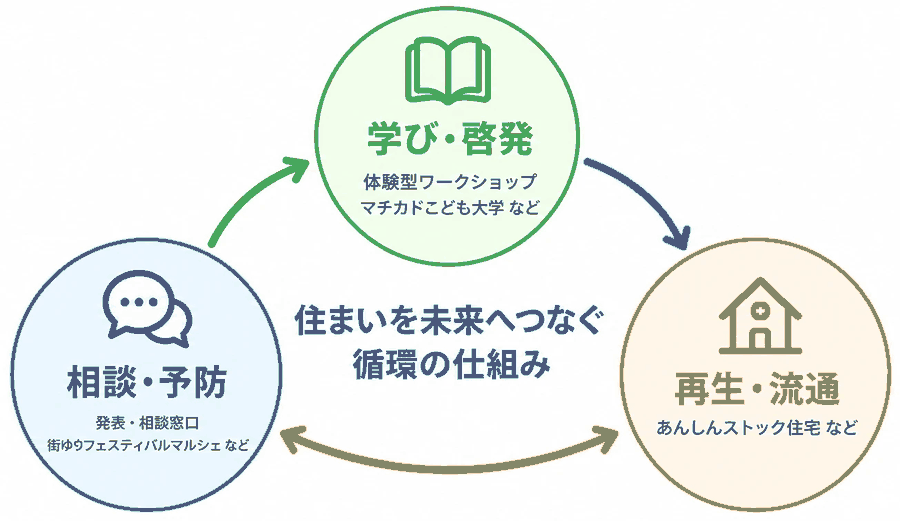
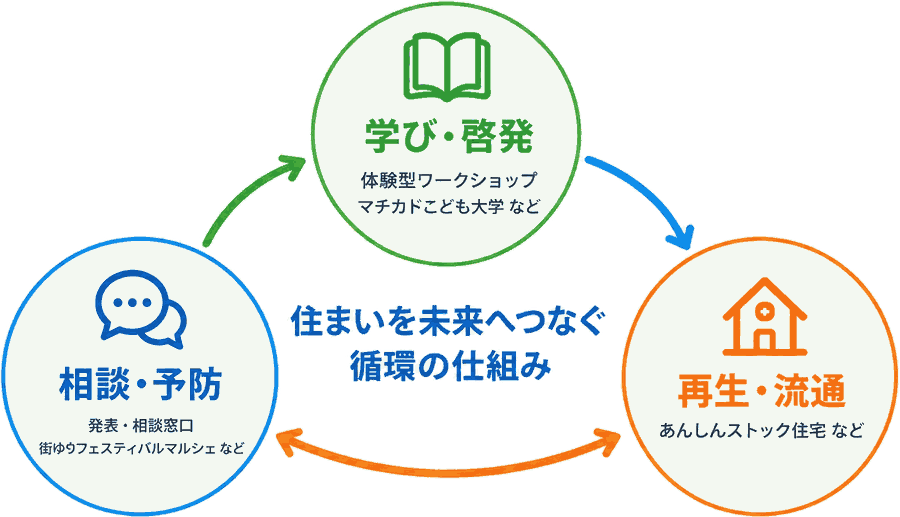
Rebuild katsudo hero to match design reference exactly
Drop the separate SVG illustration and per-node mobile crops; use the single
cycle-diagram artwork as-is on both desktop and mobile, with a transparent
background so the hero photo shows through around the circles/arrows. On
desktop the title and lead overlay the diagram's blank corner; on mobile the
text stacks above the (smaller) same image for legibility.

Claude-Session: https://claude.ai/code/session_01Dgj19L5yLhKY8Ha7ZcoKTA

diff --git a/katsudo.html b/katsudo.html
@@ -55,74 +55,16 @@
 
 <main>
 
-  <!-- ===== Page header + Intro ===== -->
+  <!-- ===== Page header + Intro + Cycle diagram (hero) ===== -->
   <div class="katsudo-hero">
-  <section class="page-header">
-    <div class="wrap">
-      <h1>活動内容</h1>
-    </div>
-  </section>
-
-  <section class="katsudo-intro">
-    <div class="wrap">
-      <p>空き家になる前から、学び、相談、再生・流通につなぐことで、住まいが循環する地域の仕組みづくりを進めています。</p>
-      <div class="katsudo-intro-visual">
-        <svg viewBox="0 0 560 300" width="100%">
-          <defs>
-            <linearGradient id="katsudoSky" x1="0" y1="0" x2="0" y2="1">
-              <stop offset="0" stop-color="#BFE0F5"/>
-              <stop offset="1" stop-color="#E8F4FB"/>
-            </linearGradient>
-          </defs>
-          <rect width="560" height="300" fill="url(#katsudoSky)"/>
-          <g fill="#8FBF7A">
-            <ellipse cx="90" cy="250" rx="120" ry="45"/>
-            <ellipse cx="470" cy="258" rx="130" ry="42"/>
-          </g>
-          <rect x="60" y="160" width="70" height="90" fill="#F4B860"/>
-          <polygon points="55,160 95,130 135,160" fill="#D98B3E"/>
-          <rect x="150" y="190" width="55" height="60" fill="#E8DCC8"/>
-          <polygon points="146,190 177,168 208,190" fill="#C9B48C"/>
-          <rect x="220" y="140" width="80" height="110" fill="#F1EADC"/>
-          <polygon points="215,140 260,108 305,140" fill="#1D6FBD"/>
-          <rect x="315" y="180" width="60" height="70" fill="#F4B860"/>
-          <polygon points="311,180 345,154 379,180" fill="#D98B3E"/>
-          <rect x="395" y="165" width="75" height="85" fill="#E8DCC8"/>
-          <polygon points="390,165 432,136 475,165" fill="#C9B48C"/>
-          <rect x="0" y="248" width="560" height="52" fill="#DCE8D2"/>
-          <line x1="0" y1="260" x2="560" y2="260" stroke="#B9CDA9" stroke-width="6"/>
-          <g>
-            <circle cx="238" cy="258" r="9" fill="#F4C892"/>
-            <rect x="229" y="267" width="18" height="24" rx="7" fill="#1D6FBD"/>
-            <circle cx="264" cy="263" r="7" fill="#F4D6A8"/>
-            <rect x="257" y="270" width="14" height="19" rx="6" fill="#F0902E"/>
-            <circle cx="212" cy="261" r="8" fill="#F4C892"/>
-            <rect x="204" y="269" width="16" height="21" rx="6" fill="#4CA750"/>
-          </g>
-        </svg>
-      </div>
-    </div>
-  </section>
-
-  <!-- ===== Cycle diagram ===== -->
   <section class="cycle-section">
     <div class="wrap">
-
-      <div class="cycle-wrap">
-        <img class="cycle-diagram-img" src="images/katsudo-cycle-diagram.png" alt="学び・啓発、相談・予防、再生・流通の3つが循環し、住まいを未来へつなぐ仕組みの図">
-      </div>
-
-      <!-- mobile-only simplified flow -->
-      <div class="cycle-mobile">
-        <img class="cycle-mobile-node" src="images/katsudo-cycle-manabi.png" alt="学び・啓発：住教育ワークショップ、マチカドこども大学 など">
-        <svg class="cycle-mobile-arrow is-green" width="26" height="30" viewBox="0 0 26 30"><line x1="13" y1="2" x2="13" y2="24" stroke="#4CA750" stroke-width="2.5"/><polygon points="13,30 7,19 19,19" fill="#4CA750"/></svg>
-        <img class="cycle-mobile-caption" src="images/katsudo-cycle-caption.png" alt="住まいを未来へつなぐ循環の仕組み">
-        <svg class="cycle-mobile-arrow is-blue" width="26" height="30" viewBox="0 0 26 30"><line x1="13" y1="6" x2="13" y2="28" stroke="#1D6FBD" stroke-width="2.5"/><polygon points="13,30 7,19 19,19" fill="#1D6FBD"/></svg>
-        <div class="cycle-mobile-row">
-          <img src="images/katsudo-cycle-soudan.png" alt="相談・予防：空き家相談窓口、地域フェスティバル・マルシェ など">
-          <svg class="cycle-mobile-arrow is-orange" width="20" height="22" viewBox="0 0 20 22"><line x1="3" y1="11" x2="16" y2="11" stroke="#F0902E" stroke-width="2.5"/><polygon points="0,11 7,6.5 7,15.5" fill="#F0902E"/><polygon points="20,11 13,6.5 13,15.5" fill="#F0902E"/></svg>
-          <img src="images/katsudo-cycle-saisei.png" alt="再生・流通：あんしんストック住宅 など">
+      <div class="katsudo-hero-flex">
+        <div class="katsudo-hero-text">
+          <h1>活動内容</h1>
+          <p>空き家になる前から、学び、相談し、再生・流通につなぐことで、住まいが循環する地域の仕組みづくりを進めています。</p>
         </div>
+        <img class="cycle-diagram-img" src="images/katsudo-cycle-diagram.png" alt="学び・啓発、相談・予防、再生・流通の3つが循環し、住まいを未来へつなぐ仕組みの図">
       </div>
 
       <!-- ===== Model business banner ===== -->

diff --git a/css/katsudo.css b/css/katsudo.css
@@ -17,24 +17,13 @@
 }
 .katsudo-hero > *{position:relative; z-index:1;}
 
-/* ===== Intro ===== */
-.katsudo-intro{padding-bottom:24px;}
-.katsudo-intro .wrap{display:grid; grid-template-columns:1.1fr 0.9fr; gap:24px; align-items:center;}
-.katsudo-intro p{color:var(--gray-text); font-size:14.5px; max-width:42ch;}
-.katsudo-intro-visual{border-radius:20px; overflow:hidden; box-shadow:var(--shadow);}
-
-/* ===== Cycle diagram ===== */
-.cycle-section{padding-top:0; padding-bottom:24px;}
-.cycle-wrap{max-width:560px; margin:0 auto 8px;}
-.cycle-diagram-img{display:block; width:100%; height:auto;}
-
-.cycle-mobile{display:none;}
-.cycle-mobile-node{width:200px; height:auto; display:block; margin:0 auto;}
-.cycle-mobile-caption{width:230px; height:auto; display:block; margin:2px auto;}
-.cycle-mobile-arrow{display:block; margin:0 auto;}
-.cycle-mobile-row{display:flex; align-items:center; justify-content:center; gap:4px;}
-.cycle-mobile-row img{width:150px; height:auto; display:block;}
-.cycle-mobile-row .cycle-mobile-arrow{flex-shrink:0;}
+/* ===== Cycle diagram hero ===== */
+.cycle-section{padding-top:36px; padding-bottom:24px;}
+.katsudo-hero-flex{position:relative;}
+.katsudo-hero-text{position:absolute; top:0; left:0; max-width:300px; z-index:2;}
+.katsudo-hero-text h1{font-size:30px; font-weight:900; margin-bottom:14px;}
+.katsudo-hero-text p{color:var(--gray-text); font-size:13.5px; line-height:1.9;}
+.cycle-diagram-img{display:block; width:100%; max-width:1000px; height:auto; margin:0 auto;}
 
 /* ===== Model business banner ===== */
 .model-banner{background:var(--blue-dark); border-radius:16px; padding:18px 26px; display:flex; align-items:center; gap:20px; color:#fff; margin-top:0;}
@@ -94,11 +83,8 @@
 
 /* ===== Responsive ===== */
 @media (max-width:900px){
-  .katsudo-intro .wrap{grid-template-columns:1fr;}
-  .katsudo-intro-visual{order:-1;}
-
-  .cycle-wrap{display:none;}
-  .cycle-mobile{display:flex; flex-direction:column; align-items:center; gap:6px; max-width:360px; margin:0 auto;}
+  .katsudo-hero-text{position:static; max-width:none; margin-bottom:18px; text-align:center;}
+  .cycle-diagram-img{max-width:420px;}
 
   .model-banner{flex-direction:column; text-align:center;}
   .model-banner .illust{width:110px;}
